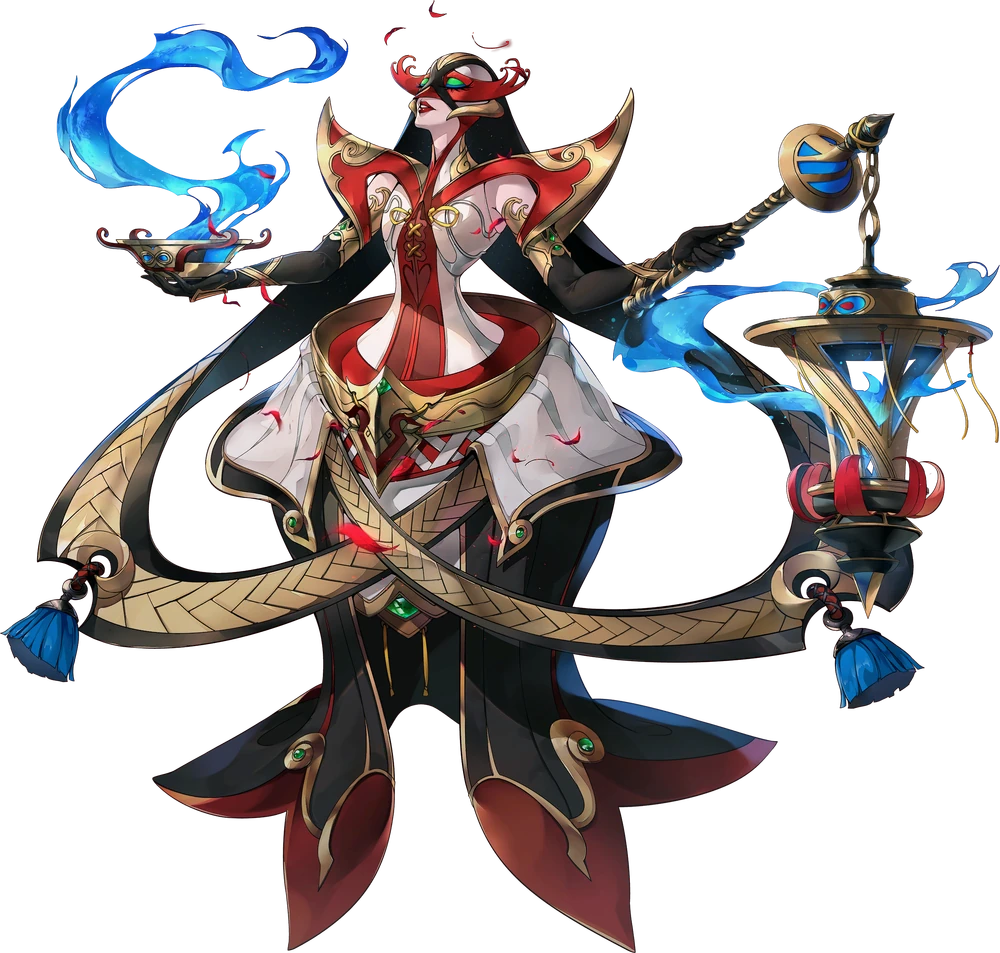
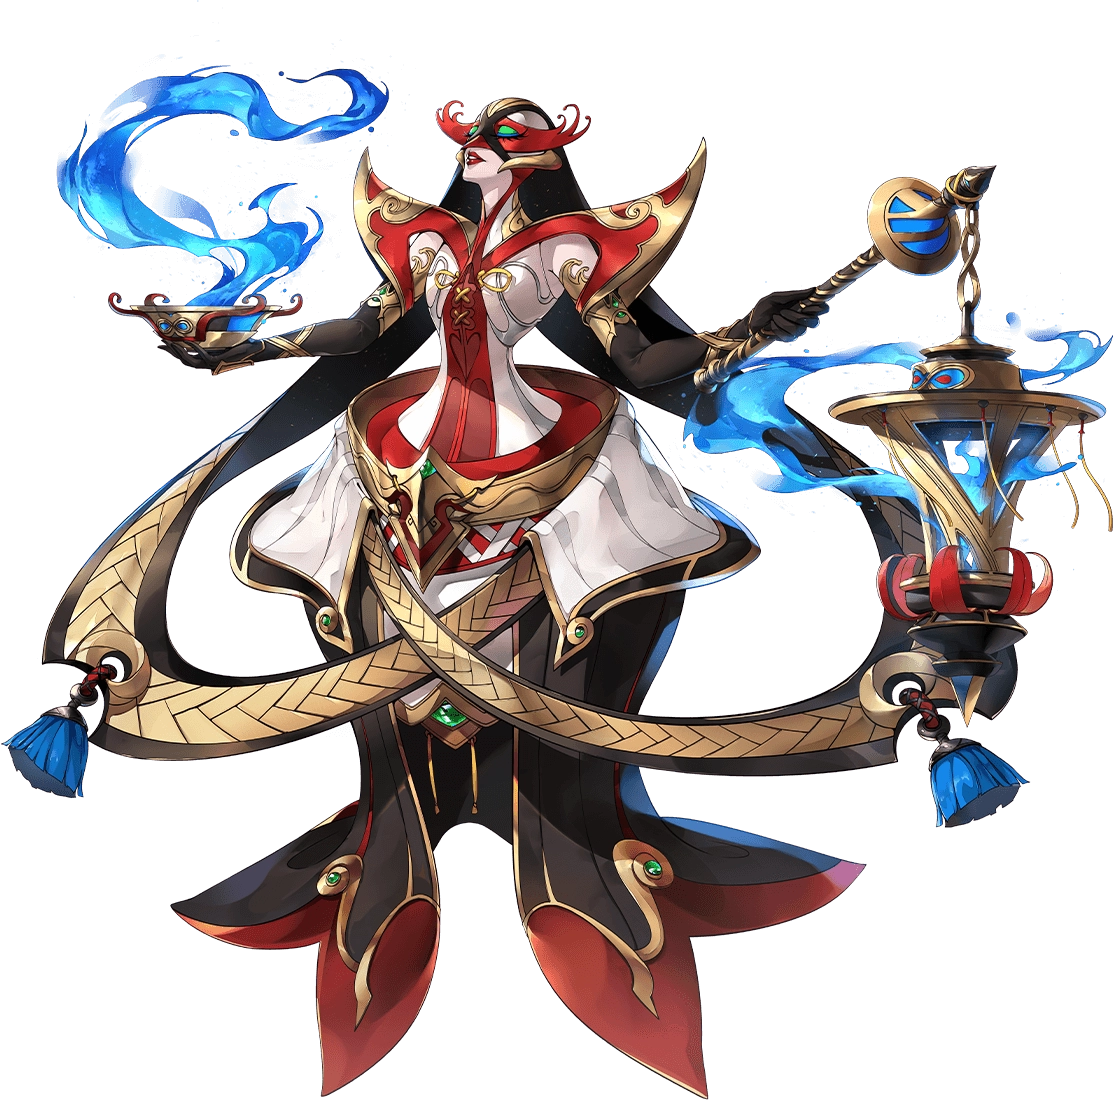
2.2.6 6

diff --git a/assets/css/cha_detail_img.css b/assets/css/cha_detail_img.css
@@ -1,0 +1,189 @@
+.carousel {
+    clip-path: inset(-100px -100px -100px -100px);
+    overflow: visible !important;
+    z-index: 0;
+}
+
+.card-style{
+    position: relative;
+    z-index: 99;
+}
+
+/* specific attribute icons are displayed larger */
+.character-images img[src*="키라 - 하르피이아.webp"],
+.character-images img[src*="리코·매화 - 치요메.webp"],
+.character-images img[src*="카스미 - 상드리옹.webp"],
+.character-images img[src*="몽타뉴·백조 - 테르프시코레.webp"],
+.character-images img[src*="마사키 - 아말테이아.webp"]{
+    width: 600px;
+}
+
+.character-images img[src*="루페르.webp"]{
+    scale: 0.8;
+}
+
+.character-images img[src*="유카리.webp"],
+.character-images img[src*="토시야.webp"]{
+    scale: 1.4;
+}
+
+.character-images img[src*="미오.webp"],
+.character-images img[src*="이치고.webp"],
+.character-images img[src*="리코·매화.webp"]{
+    scale: 1.2;
+}
+
+.character-images img[src*="모토하·여름.webp"],
+.character-images img[src*="토모코·여름.webp"],
+.character-images img[src*="안.webp"],
+.character-images img[src*="세이지.webp"]{
+    scale: 1.1;
+}
+
+.character-images img[src*="유키 마코토.webp"],
+.character-images img[src*="유스케.webp"],
+.character-images img[src*="유이 YUI.webp"],
+.character-images img[src*="레오.webp"],
+.character-images img[src*="모토하.webp"],
+.character-images img[src*="유키미.webp"]{
+    scale: 1.05;
+}
+
+
+.character-images img[src*="미나미·여름.webp"]{
+    position: relative;
+    right: 20px;
+    bottom: 20px;
+    scale: 1.05;
+}
+
+.character-images img[src*="마나카.webp"]{
+    position: relative;
+    top: 80px;
+    left: 20px;
+    scale: 1.2;
+}
+
+.character-images img[src*="사나다.webp"]{
+    position: relative;
+    top: 50px;
+    scale: 1.15;
+}
+
+.character-images img[src*="이케나미.webp"]{
+    position: relative;
+    top: 10px;
+    scale: 1.15;
+}
+
+.character-images img[src*="마유미.webp"]{
+    position: relative;
+    top: 10px;
+    left: 40px;
+    scale: 1.4;
+}
+
+.character-images img[src*="아케치.webp"]{
+    position: relative;
+    top: 30px;
+    scale: 1.1;
+}
+
+.character-images img[src*="야오링·사자무.webp"]{
+    position: relative;
+    top: 25px;
+    scale: 1.1;
+}
+
+.character-images img[src*="렌.webp"],
+.character-images img[src*="카스미.webp"],
+.character-images img[src*="루우나.webp"]{
+    position: relative;
+    top: 10px;
+    right: 60px;
+    scale: 1.05;
+}
+
+.character-images img[src*="렌 - 아르센.webp"]{
+    position: relative;
+    top: 10px;
+    left: 60px;
+    scale: 1.3;
+}
+
+.character-images img[src*="하루.webp"]{
+    scale: 1.05;
+    position: relative;
+    top: 15px;
+}
+
+.character-images img[src*="몽타뉴·백조.webp"]{
+    position: relative;
+    top: 30px;
+    right: 40px;
+    scale: 1.2;
+}
+
+.character-images img[src*="마사키.webp"]{
+    position: relative;
+    right: 50px;
+}
+
+.character-images img[src*="후타바.webp"]{
+    scale: 0.98;
+    position: relative;
+    right: 50px;
+}
+
+.character-images img[src*="키라.webp"]{
+    position: relative;
+    top: 20px;
+    left: 20px;
+    scale: 1.05;
+}
+
+.character-images img[src*="아야카.webp"]{
+    position: relative;
+    right: 40px;
+    top: 20px;
+    scale: 1.07;
+}
+
+.character-images img[src*="리코.webp"]{
+    position: relative;
+    right: 40px;
+    scale: 1.05;
+}
+
+/* '유키 마코토'가 아닌 '마코토'만 적용 */
+.character-images img[src*="마코토.webp"]:not([src*="유키 마코토.webp"]) {
+    position: relative;
+    right: 60px;
+    top: 30px;
+    scale: 1.05;
+}
+
+.character-images img[src*="유우미.webp"]{
+    scale: 1.03;
+}
+
+.character-images img[src*="몽타뉴.webp"]{
+    position: relative;
+    right: 30px;
+    scale: 1.1;
+    top: 15px;
+}
+
+.character-images img[src*="슌.webp"]{
+    position: relative;
+    right: 40px;
+    scale: 1.06;
+    top: 10px;
+}
+
+.character-images img[src*="토모코.webp"]{
+    scale: 1.12;
+    position: relative;
+    left: 30px;
+    bottom: 30px;
+}

diff --git a/assets/js/detail/dot-carousel.js b/assets/js/detail/dot-carousel.js
@@ -4,6 +4,8 @@ document.addEventListener('DOMContentLoaded', () => {
     const carousel = document.querySelector('.carousel-inner');
     const dots = document.querySelectorAll('.dot');
     let currentSlide = 0;
+    let slideWidth = carousel.clientWidth; // 개별 슬라이드 너비(px)
+    const slideGap = 200; // CSS gap과 동일하게 유지
 
     // 도트 클릭 이벤트
     dots.forEach((dot, index) => {
@@ -14,8 +16,11 @@ document.addEventListener('DOMContentLoaded', () => {
 
     function moveToSlide(index) {
         currentSlide = index;
-        const offset = -index * 100;
-        carousel.style.transform = `translateX(${offset}%)`;
+        const offsetPx = -index * (slideWidth + slideGap);
+        carousel.style.transition = '';
+        carousel.style.transform = `translateX(${offsetPx}px)`;
+        prevTranslate = offsetPx;
+        currentTranslate = offsetPx;
         updateDots();
     }
 
@@ -54,6 +59,8 @@ document.addEventListener('DOMContentLoaded', () => {
             isDragging = true;
             startPos = e.pageX;
         }
+        // 드래그 시작: 전환 제거
+        carousel.style.transition = 'none';
         prevTranslate = currentTranslate;
     }
 
@@ -69,8 +76,10 @@ document.addEventListener('DOMContentLoaded', () => {
 
         currentTranslate = prevTranslate + diff;
         
-        // 이동 제한 (-100% ~ 0%)
-        currentTranslate = Math.max(Math.min(currentTranslate, 0), -carousel.clientWidth);
+        // 이동 제한 (첫 슬라이드 ~ 마지막 슬라이드)
+        const maxTranslate = 0;
+        const minTranslate = -((slideWidth + slideGap) * 1); // 현재 2장 기준
+        currentTranslate = Math.max(Math.min(currentTranslate, maxTranslate), minTranslate);
         
         carousel.style.transform = `translateX(${currentTranslate}px)`;
     }
@@ -80,12 +89,14 @@ document.addEventListener('DOMContentLoaded', () => {
         isDragging = false;
 
         const movedBy = currentTranslate - prevTranslate;
-        const threshold = carousel.clientWidth * 0.2;
+        const threshold = slideWidth * 0.2;
 
         if (Math.abs(movedBy) > threshold) {
             if (movedBy < 0 && currentSlide < 1) {
+                carousel.style.transition = '';
                 moveToSlide(1);
             } else if (movedBy > 0 && currentSlide > 0) {
+                carousel.style.transition = '';
                 moveToSlide(0);
             } else {
                 moveToSlide(currentSlide);
@@ -97,4 +108,20 @@ document.addEventListener('DOMContentLoaded', () => {
 
     // 초기 도트 상태 설정
     updateDots();
+
+    // 리사이즈 대응: 슬라이드 너비 갱신 및 현재 위치 보정
+    window.addEventListener('resize', () => {
+        const prevSlideWidth = slideWidth;
+        slideWidth = carousel.clientWidth;
+        // 현재 인덱스 기준 오프셋 재계산
+        const offsetPx = -currentSlide * (slideWidth + slideGap);
+        carousel.style.transition = 'none';
+        carousel.style.transform = `translateX(${offsetPx}px)`;
+        prevTranslate = offsetPx;
+        currentTranslate = offsetPx;
+        // 다음 프레임에 전환 복원
+        requestAnimationFrame(() => {
+            carousel.style.transition = '';
+        });
+    });
 });

diff --git a/character/character.html b/character/character.html
@@ -1,6 +1,6 @@
 ---
 layout: default
-custom_css: [cha_detail]
+custom_css: [cha_detail, cha_detail_img]
 custom_js: [cha_detail, tooltip, detail/dot-carousel, marked.min]
 custom_data: [characters/characters.js, revelations/revelations.js, characters/character_ritual.js, characters/character_skills.js, characters/character_weapon.js, characters/character_operation.js, characters/character_party.js, tooltip.js, wonder/persona.js, wonder/weapons.js, characters/character_review.js]
 permalink: /character.html
@@ -46,7 +46,7 @@ title : 괴도 육성 가이드 - 페르소나5 더 팬텀 X 루페르넷
                     document.write(`<a href="../../?v=${APP_VERSION}">${homeText}</a>`);
                 </script>
                 <span class="separator">/</span>
-                <script>document.write(`<a href="./?v=${APP_VERSION}">${characterText}</a>`);</script>
+                <script>document.write(`<a href="/character/?v=${APP_VERSION}">${characterText}</a>`);</script>
                 <span class="separator">/</span>
                 <span class="current-page"></span>
             </div>

diff --git a/assets/css/cha_detail.css b/assets/css/cha_detail.css
@@ -49,6 +49,7 @@
     display: flex;
     transition: transform 0.3s ease;
     width: 100%;
+    gap: 200px;
 }
 
 .carousel-item {
@@ -59,19 +60,12 @@
 
 .thief-image,
 .persona-image {
-    width: 100%;
+    width: auto;
+    max-width: 100%;
     height: 600px;
     object-fit: contain;
 }
 
-/* specific attribute icons are displayed larger */
-.character-images img[src*="키라 - 하르피이아.webp"],
-.character-images img[src*="리코·매화 - 치요메.webp"],
-.character-images img[src*="카스미 - 상드리옹.webp"],
-.character-images img[src*="몽타뉴·백조 - 테르프시코레.webp"],
-.character-images img[src*="마사키 - 아말테이아.webp"]{
-    width: 600px;
-}
 
 
 .carousel-dots {
@@ -79,6 +73,8 @@
     justify-content: center;
     gap: 8px;
     margin-top: 16px;
+    position: relative;
+    z-index: 100;
 }
 
 .dot {
